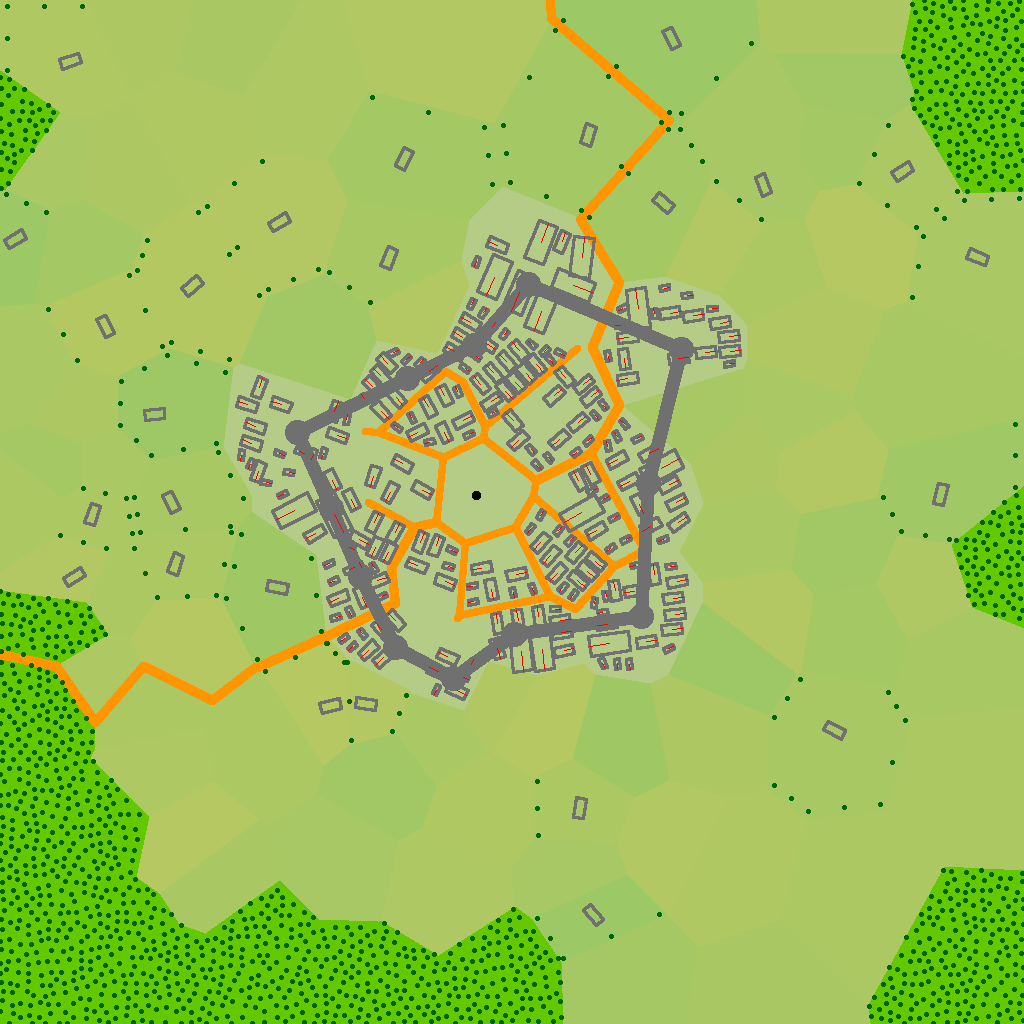
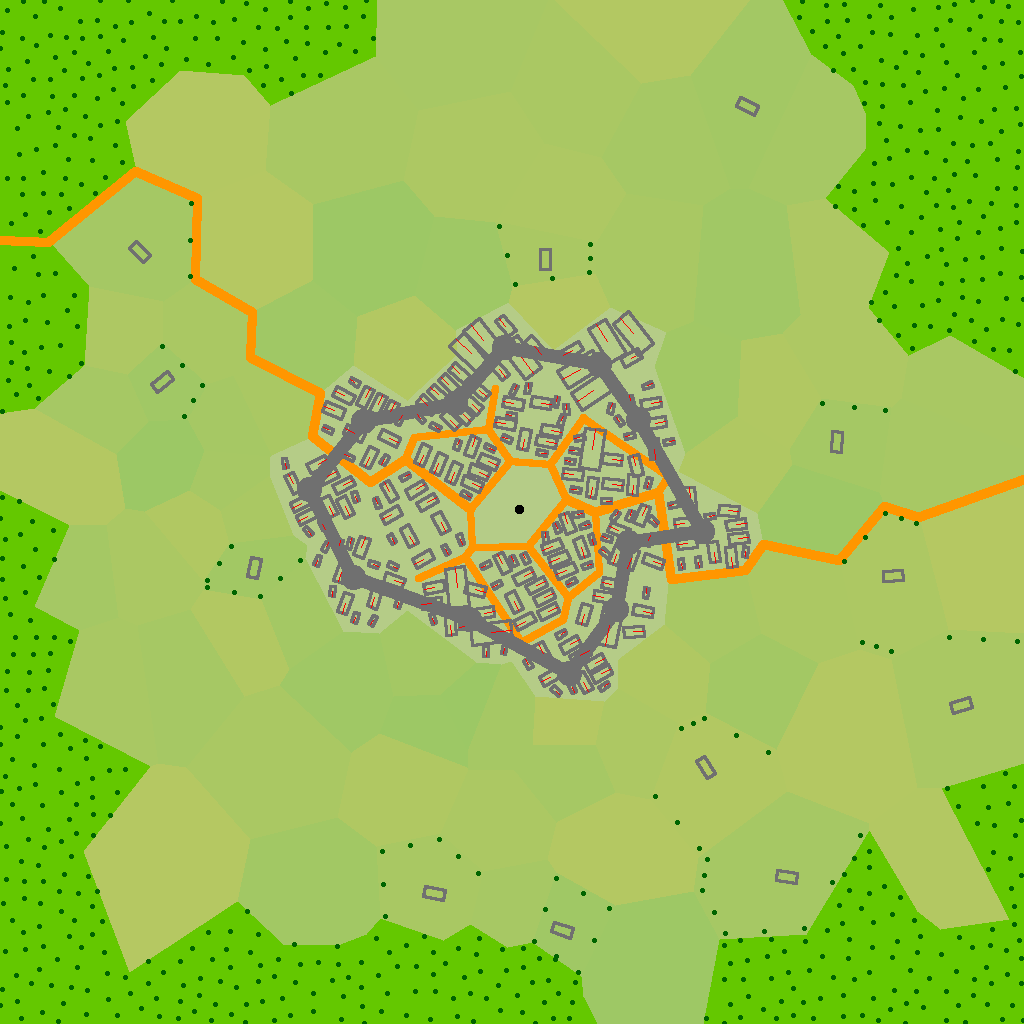
fixed polygon splitting

diff --git a/src/sitemap.cpp b/src/sitemap.cpp
@@ -14,12 +14,26 @@
 #include "voronoi.h"
 #include "sitemap.h"
 
+struct chainsegment {
+	std::list<glm::vec2>::iterator left;
+	std::list<glm::vec2>::iterator right;
+	float distance;
+};
+
+struct chainsplit {
+	std::list<glm::vec2>::iterator target;
+	std::list<glm::vec2>::iterator a;
+	std::list<glm::vec2>::iterator b;
+	glm::vec2 point;
+	float arealeft;
+	float arearight;
+};
+
 static const size_t MAX_CELLS = 128;
-static const size_t VILLAGE_DISTRICT_RADIUS = 2;
 static const size_t TOWN_DISTRICT_RADIUS = 3;
-static const size_t FIELD_DISTRICT_RADIUS = 5;
 static const size_t WALL_RADIUS = 2;
 static const size_t MIN_GATEWAY_DISTANCE = 5;
+static const float PARCEL_DENSITY_DISTANCE = 25.F;
 
 glm::vec2 polygon_centroid(std::vector<glm::vec2> &vertices)
 {
@@ -484,7 +498,6 @@ void Sitemap::divide_parcels(void)
 		if (d.radius > 0 && d.radius < TOWN_DISTRICT_RADIUS) {
 			std::list<glm::vec2> polygon;
 			for (auto jun : d.junctions) {
-				printf("%f, %f\n", jun->position.x, jun->position.y);
 				glm::vec2 p = 0.9f * (jun->position - d.center);
 				polygon.push_back(d.center+p);
 			}
@@ -496,8 +509,7 @@ void Sitemap::divide_parcels(void)
 				}
 				glm::vec2 a = *it;
 				glm::vec2 b = *next;
-				//printf("distance %f\n", glm::distance(a, b));
-				if (glm::distance(a, b) > 25.f) {
+				if (glm::distance(a, b) > PARCEL_DENSITY_DISTANCE) {
 					polygon.insert(next, segment_midpoint(a, b));
 				}
 				if (next != polygon.begin()) {
@@ -511,34 +523,13 @@ void Sitemap::divide_parcels(void)
 	}
 }
 
-struct chainsplit {
-	std::list<glm::vec2>::iterator target;
-	std::list<glm::vec2>::iterator a;
-	std::list<glm::vec2>::iterator b;
-	glm::vec2 point;
-};
-			
 // ugly
-static struct chainsplit find_chainsplit(std::list<glm::vec2> &polygon)
+static struct chainsplit find_chainsplit(std::list<glm::vec2> &polygon, std::list<glm::vec2>::iterator &longesta, std::list<glm::vec2>::iterator &longestb)
 {
 	struct chainsplit split;
 
-	// sort from longest to shortest segment
-	float maxdistance = std::numeric_limits<float>::min();
-	for (std::list<glm::vec2>::iterator it = polygon.begin(); it != polygon.end(); ++it) {
-		std::list<glm::vec2>::iterator next = std::next(it);
-		if (next == polygon.end()) {
-			next = polygon.begin();
-		}
-		glm::vec2 a = *it;
-		glm::vec2 b = *next;
-		float dist = glm::distance(a, b);
-		if (dist > maxdistance) {
-			maxdistance = dist;
-			split.a = it;
-			split.b = next;
-		}
-	}
+	split.a = longesta;
+	split.b = longestb;
 
 	// find the best possible way to split the polygon in two roughly equal areas
 	float min = std::numeric_limits<float>::max();
@@ -573,9 +564,6 @@ static struct chainsplit find_chainsplit(std::list<glm::vec2> &polygon)
 			}
 			left.push_back(*it);
 
-			//printf("right size %d\n", right.size());
-			//printf("left size %d\n", left.size());
-
 			std::vector<glm::vec2> rightpoints;
 			std::vector<glm::vec2> leftpoints;
 			for (auto point : right) {
@@ -584,13 +572,16 @@ static struct chainsplit find_chainsplit(std::list<glm::vec2> &polygon)
 			for (auto point : left) {
 				leftpoints.push_back(point);
 			}
-			float arearight = polygon_area(rightpoints);
-			float arealeft = polygon_area(leftpoints);
-			float ratio = arearight / arealeft;
+			split.arearight = polygon_area(rightpoints);
+			if (split.arearight == 0.F) {
+				split.arearight =  std::numeric_limits<float>::epsilon();
+			}
+			split.arealeft = polygon_area(leftpoints);
+			if (split.arealeft == 0.F) {
+				split.arealeft =  std::numeric_limits<float>::epsilon();
+			}
 
-			printf("area right %f\n", arearight);
-			printf("area left %f\n", arealeft);
-			printf("area ratio %f\n", ratio);
+			float ratio = split.arearight / split.arealeft;
 
 			// best ratio is the closest to 1
 			float dist = fabs(1.F - ratio);
@@ -621,7 +612,7 @@ static struct parcel make_parcel(glm::vec2 a, glm::vec2 b, glm::vec2 c, glm::vec
 	par.frontright = c;
 	par.backleft = b;
 	par.backright = a;
-	par.owner = cell;
+	par.quarter = cell;
 
 	std::vector<glm::vec2> vertices;
 	vertices.push_back(par.frontleft);
@@ -631,6 +622,11 @@ static struct parcel make_parcel(glm::vec2 a, glm::vec2 b, glm::vec2 c, glm::vec
 	par.centroid = polygon_centroid(vertices);
 	par.direction = glm::normalize(segment_midpoint(par.frontleft, par.frontright) - par.centroid);
 	return par;
+}
+
+static bool longest_segment(struct chainsegment &a, struct chainsegment &b)
+{
+	return a.distance > b.distance;
 }
 
 void Sitemap::divide_polygons(std::list<glm::vec2> start, const struct district *cell)
@@ -652,61 +648,67 @@ void Sitemap::divide_polygons(std::list<glm::vec2> start, const struct district 
 			polygon.pop_front();
 			struct parcel par = make_parcel(a, b, c, d, cell);
 			parcels.push_back(par);
-		} else if (polygon.size() == 3) {
-			//struct parcel par;
-			//parcels.push_back(par);
-		} else {
+		} else if (polygon.size() > 4) {
 			// of all the polygon segments find a point that lies on a perpendicular line to the segment that divides the polygon in two "almost equal" areas 
-			printf("\n");
-			printf("%d polygon before\n", polygon.size());
-			struct chainsplit split = find_chainsplit(polygon);
-			printf("%d polygon after\n", polygon.size());
-			// divide the polygon in two
-			const std::list<glm::vec2>::iterator splitstart = polygon.insert(split.b, split.point);
-			// first half
-			std::list<glm::vec2> right;
-			std::list<glm::vec2>::iterator it = splitstart;
-			while (it != split.target) {
-				right.push_back(*it);
-				it++;	
-				if (it == polygon.end()) { 
-					it = polygon.begin(); 
+			// sort from longest to shortest segment
+			std::vector<struct chainsegment> chainseg;
+			for (std::list<glm::vec2>::iterator it = polygon.begin(); it != polygon.end(); ++it) {
+				std::list<glm::vec2>::iterator next = std::next(it);
+				if (next == polygon.end()) {
+					next = polygon.begin();
 				}
+				chainseg.push_back((struct chainsegment){it, next, glm::distance(*it, *next)});
 			}
-			right.push_back(*split.target);
-			// second half
-			std::list<glm::vec2> left;
-			it = splitstart;
-			while (it != split.target) {
-				left.push_back(*it);
-				if (it == polygon.begin()) { 
-					it = std::prev(polygon.end()); 
-				} else {
-					it--;	
+			std::sort(chainseg.begin(), chainseg.end(), longest_segment);
+			for (auto &splitter : chainseg) {
+				struct chainsplit split = find_chainsplit(polygon, splitter.left, splitter.right);
+				// divide the polygon in two
+				const std::list<glm::vec2>::iterator splitstart = polygon.insert(split.b, split.point);
+				// first half
+				std::list<glm::vec2> right;
+				std::list<glm::vec2>::iterator it = splitstart;
+				while (it != split.target) {
+					right.push_back(*it);
+					it++;	
+					if (it == polygon.end()) { 
+						it = polygon.begin(); 
+					}
 				}
-			}
-			left.push_back(*split.target);
+				right.push_back(*split.target);
+				// second half
+				std::list<glm::vec2> left;
+				it = splitstart;
+				while (it != split.target) {
+					left.push_back(*it);
+					if (it == polygon.begin()) { 
+						it = std::prev(polygon.end()); 
+					} else {
+						it--;	
+					}
+				}
+				left.push_back(*split.target);
 
-			std::vector<glm::vec2> rightpoints;
-			std::vector<glm::vec2> leftpoints;
-			for (auto point : right) {
-				rightpoints.push_back(point);
-			}
-			for (auto point : left) {
-				leftpoints.push_back(point);
-			}
-			float arearight = polygon_area(rightpoints);
-			float arealeft = polygon_area(leftpoints);
+				std::vector<glm::vec2> rightpoints;
+				std::vector<glm::vec2> leftpoints;
+				for (auto point : right) {
+					rightpoints.push_back(point);
+				}
+				for (auto point : left) {
+					leftpoints.push_back(point);
+				}
+				float arearight = polygon_area(rightpoints);
+				float arealeft = polygon_area(leftpoints);
 
-			printf("area right %f\n", arearight);
-			printf("area left %f\n", arealeft);
-
-			if (arearight > 0.001f && arealeft > 0.001f) {
-				queue.push(right);
-				queue.push(left);
+				// best polygon split was found
+				// add the two halves of the polygon to the queue
+				if (arearight > 0.001f && arealeft > 0.001f) {
+					queue.push(right);
+					queue.push(left);
+					break;
+				}
+				// remove the inserted point from the original polygon
+				polygon.erase(splitstart);
 			}
-			printf("right size %d\n", right.size());
-			printf("left size %d\n", left.size());
 		}
 	}
 }

diff --git a/src/main.cpp b/src/main.cpp
@@ -74,7 +74,7 @@ void draw_thick_line(int x0, int y0, int x1, int y1, int radius, unsigned char *
 
 void plant_trees(std::vector<glm::vec2> &tree_points, const Sitemap *map)
 {
-	float radius = 8.F;
+	float radius = 16.F;
 	auto mmin = std::array<float, 2>{{SITE_AREA.min.x, SITE_AREA.min.y}};
 	auto mmax = std::array<float, 2>{{SITE_AREA.max.x, SITE_AREA.max.y}};
 
@@ -93,7 +93,7 @@ void plant_trees(std::vector<glm::vec2> &tree_points, const Sitemap *map)
 				glm::vec2 b = {round(s->j0->position.x), round(s->j0->position.y)};
 				glm::vec2 c = {round(s->j1->position.x), round(s->j1->position.y)};
 				// if street
-				if (s->j0->street && s->j1->street) {
+				if (s->j0->street || s->j1->street) {
 					b = a + (0.9F * (b-a));
 					c = a + (0.9F * (c-a));
 				}
@@ -154,7 +154,6 @@ void print_site(const Sitemap *map)
 			draw_triangle(a, b, c, image.data, image.width, image.height, image.nchannels, color);
 			area += triangle_area(a, b, c);
 		}
-		printf("district area %f\n", area);
 		//draw_filled_circle(a.x, a.y, 1, image.data, image.width, image.height, image.nchannels, BLACK);
 	}
 	/*
@@ -216,10 +215,6 @@ void print_site(const Sitemap *map)
 		draw_line(parc.backleft.x, parc.backleft.y, parc.backright.x, parc.backright.y, image.data, image.width, image.height, image.nchannels, PURPLE);
 		draw_line(parc.backright.x, parc.backright.y, parc.frontleft.x, parc.frontleft.y, image.data, image.width, image.height, image.nchannels, PURPLE);
 		
-		draw_filled_circle(parc.frontleft.x, parc.frontleft.y, 1, image.data, image.width, image.height, image.nchannels, REDCOLOR);
-		draw_filled_circle(parc.frontright.x, parc.frontright.y, 1, image.data, image.width, image.height, image.nchannels, GRN);
-		draw_filled_circle(parc.backleft.x, parc.backleft.y, 1, image.data, image.width, image.height, image.nchannels, BLU);
-		draw_filled_circle(parc.backright.x, parc.backright.y, 1, image.data, image.width, image.height, image.nchannels, BLACK);
 	}
 	*/
 
@@ -339,7 +334,7 @@ int main(int argc, char *argv[])
 	std::mt19937 gen(rd());
 	std::uniform_int_distribution<long> dist;
 	long seed = dist(gen);
-//long seed = 6827093389560411570; // freezes
+	//long seed = 4207165172587737803; // inwardiness
 
 	std::cout << seed << std::endl;
 

diff --git a/src/sitemap.h b/src/sitemap.h
@@ -5,7 +5,6 @@ struct junction;
 struct section;
 
 struct parcel {
-	//glm::vec2 a, b, c, d;
 	// front faces the nearest street
 	glm::vec2 frontleft;
 	glm::vec2 frontright;
@@ -13,8 +12,8 @@ struct parcel {
 	glm::vec2 backleft;
 	glm::vec2 backright;
 	glm::vec2 centroid;
-	glm::vec2 direction; // normalized direction vector to where the street is
-	const struct district *owner;
+	glm::vec2 direction; // normalized direction vector to the closest street, if a parcel has a building on it it will be rotated in that direction
+	const struct district *quarter;
 };
 
 struct section {
@@ -54,13 +53,14 @@ struct district {
 
 class Sitemap {
 public:
-	std::vector<struct district> districts;
-	std::vector<struct junction> junctions;
-	std::vector<struct section> sections;
 	struct district *core;
 	std::vector<struct segment> highways;
 	std::vector<struct parcel> parcels;
 	long seed;
+	// graph structures
+	std::vector<struct district> districts;
+	std::vector<struct junction> junctions;
+	std::vector<struct section> sections;
 public:
 	Sitemap(long seed, struct rectangle area);
 	void make_diagram(void);
